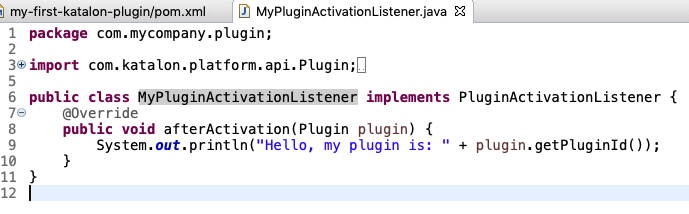
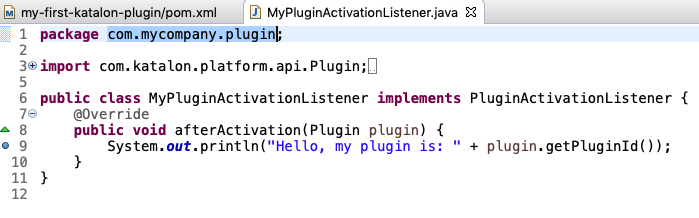
Correct Debug your plugin tutorial

Changed region(s): [[0.0, 0.2523, 1.0, 0.9533], [0.0, 0.0, 1.0, 0.2523], [0.0914, 0.7009, 0.1219, 0.785]]

diff --git a/docs/turorials/how-to-debug-your-plugin/how-to-debug-your-plugin-using-Eclipse.md b/docs/turorials/how-to-debug-your-plugin/how-to-debug-your-plugin-using-Eclipse.md
@@ -6,24 +6,24 @@ This tutorial will illustrate how to debug a platform plugin using Eclipse IDE v
 1. Java SDK 1.8
 2. Maven 3.3+
 3. Katalon Studio v6.1.0 or later
-4. Eclipse IDE (The author used Eclipse 4.11 in this article)
+4. Eclipse IDE (We used Eclipse 4.11 in this article)
 
 ### Step 1: Start Katalon Studio with remote debugger mode
 Start katalon via commandline using this command:
 ```sh
 <katalon_installed_folder>/katalon -vmargs -Xdebug -Xrunjdwp:transport=dt_socket,server=y,suspend=n,address=8000
 ```
-The `<katalon_installed_folder>` is the Katalon installed folder. If you are using macOS, the `<katalon_installed_folder>` should be `/Applications/Katalon Studio.app/Contents/MacOS`.
+The `<katalon_installed_folder>` is the absolute path to Katalon installed folder. If you are using macOS, the `<katalon_installed_folder>` should be `/Applications/Katalon Studio.app/Contents/MacOS`.
 
 The `address=8000` is a local port number, JVM will allow a debugger to attach to Katalon Studio via this port. You can change to another port if needed.
 
 ### Step 2: Import your platform plugin to Eclipse IDE as a Maven project
-In this example, we will use the [katalon-studio-sample-plugin](https://github.com/katalon-studio/katalon-studio-sample-plugin) to import to Eclipse IDE.
+In this example, we will use the last tutorial project: [katalon-studio-sample-plugin](https://github.com/katalon-studio/katalon-studio-sample-plugin) to debug.
 
 ![import_plugin_project_to_eclipse_ide](images/import_plugin_project_to_eclipse_ide.png)
 
 ### Step 3: Set a breakpoint
-Open a Java file and set a breakpoint in the code. In this example, we set the breakpoint in the line:
+Open a Java file and set a breakpoint in the code. In this example, we set the breakpoint in the line of class [MyPluginActivationListener](https://github.com/katalon-studio/katalon-studio-sample-plugin/blob/master/src/main/java/com/mycompany/plugin/MyPluginActivationListener.java):
 ```java
 System.out.println("Hello, my plugin is: " + plugin.getPluginId());
 ```
@@ -32,15 +32,17 @@ System.out.println("Hello, my plugin is: " + plugin.getPluginId());
 
 ### Step 4: Create a Java Remote Application Debugger
 Click on the arrow dropdown of Eclipse debug icon ![debug](https://help.eclipse.org/2019-03/topic/org.eclipse.jdt.doc.user/images/org.eclipse.debug.ui/obj16/ldebug_obj.png), choose `Debug Configuration` item.
-![debug-configuration](images/debug-configuration.png)
 
 Right-click on the `Java Remote Application` and choose `New Configuration`
-![new_configuration.png](images/new_configuration.png)
+
+![new_remote_debugger](images/new_remote_debugger.png)
 
 ### Step 5: Configure the Java Remote Application Debugger
-`Enter` or `Browse` your platform plugin project name at the text field under `Project` section.
+`Browse` to your platform plugin project at the text field under `Project` section.
 
-Replace the port number you declared at step 1 to the `Port:` text field under `Connection Properties` section and click Debug to finish setup.
+Enter the port number you declared at step 1 to the `Port:` text field under `Connection Properties` section.
+
+Click `Debug` to finish setup.
 
 If your setup is correct, there is a ![disconect](https://help.eclipse.org/luna/rtopic/org.eclipse.cdt.debug.application.doc/images/icon_disconnect.gif) icon will show on Eclipse toolbar.
 
@@ -49,6 +51,8 @@ Import your plugin and do your expected actions to make the breakpoint you place
 In this sample, the breakpoint will hit immediately after the plugin succesfiully installed.
 
 ![break_point_hit](images/breakpoint_hit.png)
+
+Now you can debug your platform plugin project as a normal Java project.
 
 ### Step 7: Disconnect and stop debugging
 Press the ![disconect](https://help.eclipse.org/luna/rtopic/org.eclipse.cdt.debug.application.doc/images/icon_disconnect.gif) icon to disconnect and stop your debugging session.
